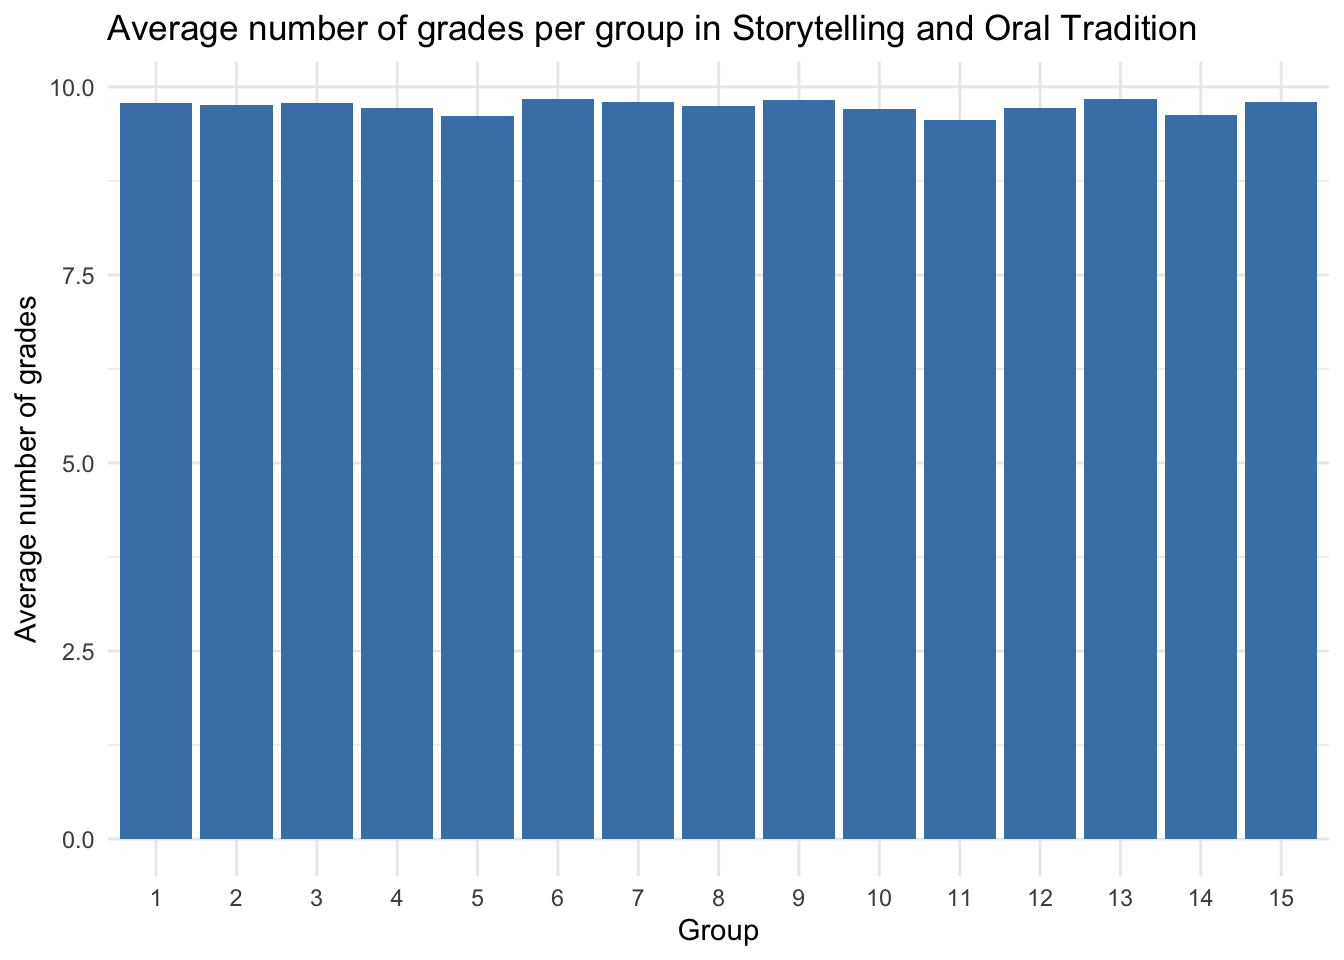
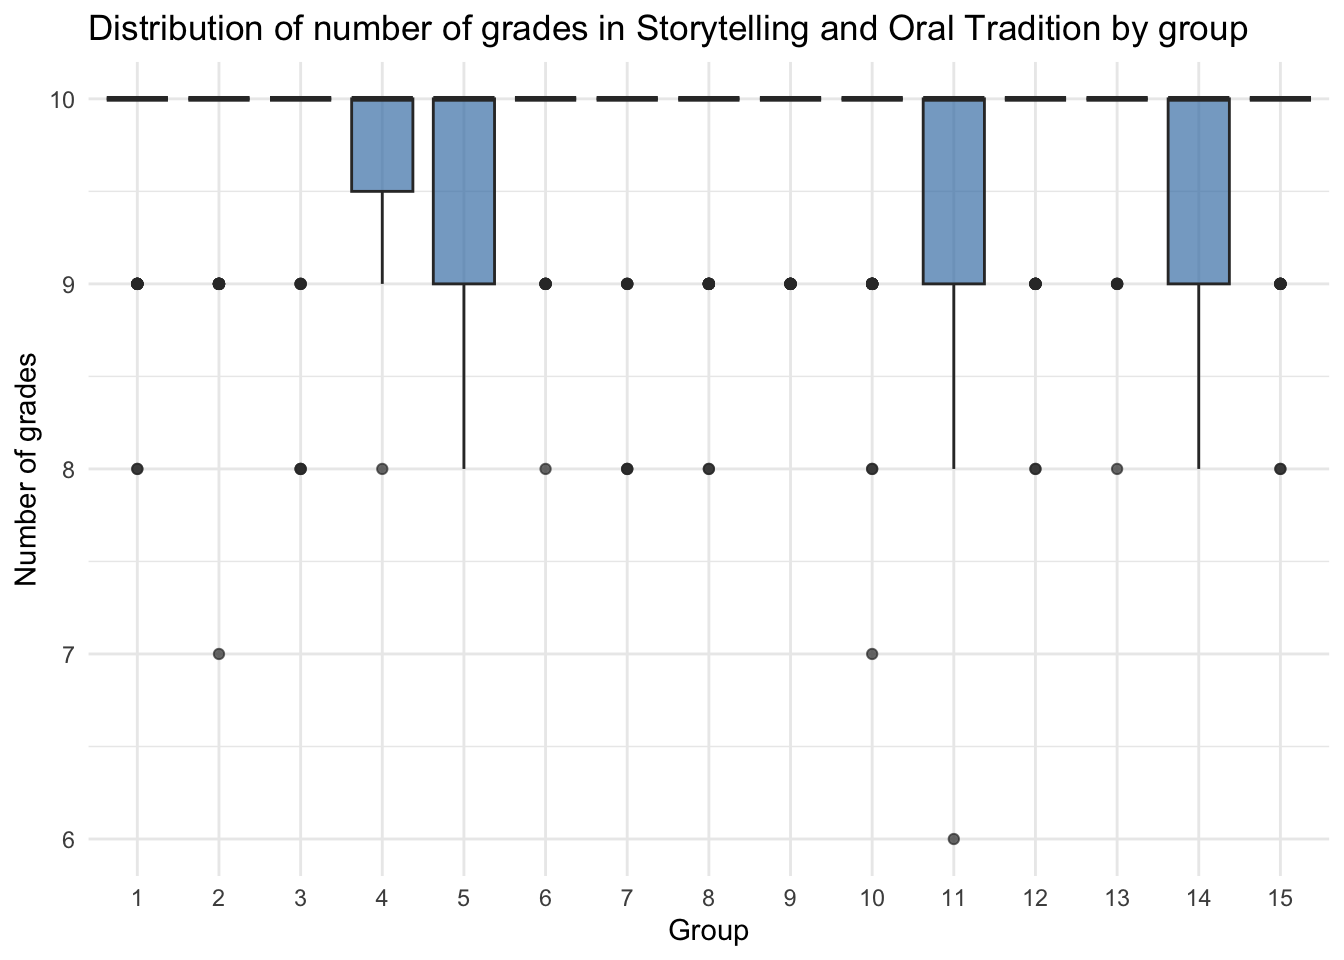
10:31

diff --git a/mazere.html b/mazere.html
@@ -313,7 +313,7 @@ pre > code.sourceCode > span > a:first-child::before { text-decoration: underlin
 <span id="cb8-2"><a href="#cb8-2" aria-hidden="true" tabindex="-1"></a>  <span class="fu">count</span>(group, sex) <span class="sc">|&gt;</span></span>
 <span id="cb8-3"><a href="#cb8-3" aria-hidden="true" tabindex="-1"></a>  <span class="fu">ggplot</span>(<span class="fu">aes</span>(<span class="at">x =</span> group, <span class="at">y =</span> n, <span class="at">fill =</span> sex)) <span class="sc">+</span></span>
 <span id="cb8-4"><a href="#cb8-4" aria-hidden="true" tabindex="-1"></a>  <span class="fu">geom_col</span>(<span class="at">position =</span> <span class="st">"fill"</span>) <span class="sc">+</span></span>
-<span id="cb8-5"><a href="#cb8-5" aria-hidden="true" tabindex="-1"></a>  <span class="fu">scale_fill_manual</span>(<span class="at">values =</span> <span class="fu">c</span>(<span class="st">"steelblue"</span>, <span class="st">"salmon"</span>)) <span class="sc">+</span></span>
+<span id="cb8-5"><a href="#cb8-5" aria-hidden="true" tabindex="-1"></a>  <span class="fu">scale_fill_manual</span>(<span class="at">values =</span> <span class="fu">c</span>(<span class="st">"lightblue"</span>, <span class="st">"salmon"</span>)) <span class="sc">+</span></span>
 <span id="cb8-6"><a href="#cb8-6" aria-hidden="true" tabindex="-1"></a>  <span class="fu">labs</span>(<span class="at">title =</span> <span class="st">"Gender balance by group"</span>,</span>
 <span id="cb8-7"><a href="#cb8-7" aria-hidden="true" tabindex="-1"></a>    <span class="at">x =</span> <span class="st">"Group"</span>, <span class="at">y =</span> <span class="st">"Count"</span>, <span class="at">fill =</span> <span class="st">"Gender"</span>) <span class="sc">+</span></span>
 <span id="cb8-8"><a href="#cb8-8" aria-hidden="true" tabindex="-1"></a>  <span class="fu">theme_minimal</span>()</span></code></pre></div><button title="Copy to Clipboard" class="code-copy-button"><i class="bi"></i></button></div>
@@ -642,64 +642,64 @@ pre > code.sourceCode > span > a:first-child::before { text-decoration: underlin
 </thead>
 <tbody>
 <tr class="odd">
-<td style="text-align: right;">288</td>
-<td style="text-align: left;">5</td>
-<td style="text-align: left;">M</td>
-<td style="text-align: right;">61</td>
-</tr>
-<tr class="even">
-<td style="text-align: right;">654</td>
-<td style="text-align: left;">4</td>
+<td style="text-align: right;">31</td>
+<td style="text-align: left;">6</td>
 <td style="text-align: left;">F</td>
-<td style="text-align: right;">63</td>
-</tr>
-<tr class="odd">
-<td style="text-align: right;">679</td>
-<td style="text-align: left;">5</td>
-<td style="text-align: left;">F</td>
-<td style="text-align: right;">60</td>
-</tr>
-<tr class="even">
-<td style="text-align: right;">552</td>
-<td style="text-align: left;">15</td>
-<td style="text-align: left;">F</td>
-<td style="text-align: right;">64</td>
-</tr>
-<tr class="odd">
-<td style="text-align: right;">343</td>
-<td style="text-align: left;">8</td>
-<td style="text-align: left;">M</td>
 <td style="text-align: right;">62</td>
 </tr>
 <tr class="even">
-<td style="text-align: right;">125</td>
-<td style="text-align: left;">8</td>
+<td style="text-align: right;">262</td>
+<td style="text-align: left;">13</td>
 <td style="text-align: left;">M</td>
-<td style="text-align: right;">60</td>
+<td style="text-align: right;">64</td>
 </tr>
 <tr class="odd">
-<td style="text-align: right;">548</td>
-<td style="text-align: left;">8</td>
-<td style="text-align: left;">M</td>
-<td style="text-align: right;">61</td>
-</tr>
-<tr class="even">
-<td style="text-align: right;">492</td>
-<td style="text-align: left;">1</td>
+<td style="text-align: right;">192</td>
+<td style="text-align: left;">6</td>
 <td style="text-align: left;">M</td>
 <td style="text-align: right;">63</td>
 </tr>
-<tr class="odd">
-<td style="text-align: right;">419</td>
+<tr class="even">
+<td style="text-align: right;">631</td>
 <td style="text-align: left;">10</td>
 <td style="text-align: left;">F</td>
-<td style="text-align: right;">62</td>
+<td style="text-align: right;">63</td>
+</tr>
+<tr class="odd">
+<td style="text-align: right;">117</td>
+<td style="text-align: left;">3</td>
+<td style="text-align: left;">F</td>
+<td style="text-align: right;">63</td>
 </tr>
 <tr class="even">
-<td style="text-align: right;">786</td>
-<td style="text-align: left;">7</td>
+<td style="text-align: right;">469</td>
+<td style="text-align: left;">13</td>
+<td style="text-align: left;">M</td>
+<td style="text-align: right;">63</td>
+</tr>
+<tr class="odd">
+<td style="text-align: right;">555</td>
+<td style="text-align: left;">1</td>
 <td style="text-align: left;">F</td>
 <td style="text-align: right;">64</td>
+</tr>
+<tr class="even">
+<td style="text-align: right;">257</td>
+<td style="text-align: left;">10</td>
+<td style="text-align: left;">F</td>
+<td style="text-align: right;">63</td>
+</tr>
+<tr class="odd">
+<td style="text-align: right;">816</td>
+<td style="text-align: left;">11</td>
+<td style="text-align: left;">F</td>
+<td style="text-align: right;">64</td>
+</tr>
+<tr class="even">
+<td style="text-align: right;">168</td>
+<td style="text-align: left;">5</td>
+<td style="text-align: left;">M</td>
+<td style="text-align: right;">62</td>
 </tr>
 </tbody>
 </table>
@@ -791,62 +791,62 @@ pre > code.sourceCode > span > a:first-child::before { text-decoration: underlin
 </thead>
 <tbody>
 <tr class="odd">
-<td style="text-align: right;">708</td>
-<td style="text-align: left;">11</td>
+<td style="text-align: right;">21</td>
+<td style="text-align: left;">3</td>
 <td style="text-align: left;">F</td>
 <td style="text-align: right;">10</td>
 </tr>
 <tr class="even">
-<td style="text-align: right;">402</td>
-<td style="text-align: left;">10</td>
-<td style="text-align: left;">M</td>
-<td style="text-align: right;">9</td>
+<td style="text-align: right;">828</td>
+<td style="text-align: left;">5</td>
+<td style="text-align: left;">F</td>
+<td style="text-align: right;">10</td>
 </tr>
 <tr class="odd">
-<td style="text-align: right;">336</td>
+<td style="text-align: right;">712</td>
 <td style="text-align: left;">1</td>
 <td style="text-align: left;">F</td>
 <td style="text-align: right;">10</td>
 </tr>
 <tr class="even">
-<td style="text-align: right;">702</td>
-<td style="text-align: left;">2</td>
+<td style="text-align: right;">790</td>
+<td style="text-align: left;">10</td>
+<td style="text-align: left;">F</td>
+<td style="text-align: right;">10</td>
+</tr>
+<tr class="odd">
+<td style="text-align: right;">776</td>
+<td style="text-align: left;">1</td>
+<td style="text-align: left;">F</td>
+<td style="text-align: right;">10</td>
+</tr>
+<tr class="even">
+<td style="text-align: right;">442</td>
+<td style="text-align: left;">13</td>
 <td style="text-align: left;">M</td>
-<td style="text-align: right;">9</td>
+<td style="text-align: right;">10</td>
 </tr>
 <tr class="odd">
-<td style="text-align: right;">161</td>
-<td style="text-align: left;">15</td>
-<td style="text-align: left;">F</td>
+<td style="text-align: right;">428</td>
+<td style="text-align: left;">7</td>
+<td style="text-align: left;">M</td>
 <td style="text-align: right;">10</td>
 </tr>
 <tr class="even">
-<td style="text-align: right;">524</td>
-<td style="text-align: left;">2</td>
+<td style="text-align: right;">45</td>
+<td style="text-align: left;">1</td>
 <td style="text-align: left;">M</td>
 <td style="text-align: right;">10</td>
 </tr>
 <tr class="odd">
-<td style="text-align: right;">842</td>
-<td style="text-align: left;">9</td>
-<td style="text-align: left;">F</td>
-<td style="text-align: right;">9</td>
-</tr>
-<tr class="even">
-<td style="text-align: right;">163</td>
-<td style="text-align: left;">9</td>
-<td style="text-align: left;">F</td>
-<td style="text-align: right;">10</td>
-</tr>
-<tr class="odd">
-<td style="text-align: right;">432</td>
-<td style="text-align: left;">6</td>
+<td style="text-align: right;">610</td>
+<td style="text-align: left;">13</td>
 <td style="text-align: left;">F</td>
 <td style="text-align: right;">10</td>
 </tr>
 <tr class="even">
-<td style="text-align: right;">11</td>
-<td style="text-align: left;">2</td>
+<td style="text-align: right;">388</td>
+<td style="text-align: left;">10</td>
 <td style="text-align: left;">F</td>
 <td style="text-align: right;">10</td>
 </tr>
@@ -883,15 +883,14 @@ pre > code.sourceCode > span > a:first-child::before { text-decoration: underlin
 <details class="code-fold">
 <summary>Code</summary>
 <div class="code-copy-outer-scaffold"><div class="sourceCode cell-code" id="cb21"><pre class="sourceCode r code-with-copy"><code class="sourceCode r"><span id="cb21-1"><a href="#cb21-1" aria-hidden="true" tabindex="-1"></a>storytelling <span class="sc">|&gt;</span></span>
-<span id="cb21-2"><a href="#cb21-2" aria-hidden="true" tabindex="-1"></a>  <span class="fu">group_by</span>(group) <span class="sc">|&gt;</span></span>
-<span id="cb21-3"><a href="#cb21-3" aria-hidden="true" tabindex="-1"></a>  <span class="fu">summarise</span>(<span class="at">avg_grades =</span> <span class="fu">mean</span>(n_grades)) <span class="sc">|&gt;</span></span>
-<span id="cb21-4"><a href="#cb21-4" aria-hidden="true" tabindex="-1"></a>  <span class="fu">ggplot</span>(<span class="fu">aes</span>(<span class="at">x =</span> group, <span class="at">y =</span> avg_grades)) <span class="sc">+</span></span>
-<span id="cb21-5"><a href="#cb21-5" aria-hidden="true" tabindex="-1"></a>  <span class="fu">geom_col</span>(<span class="at">fill =</span> <span class="st">"steelblue"</span>) <span class="sc">+</span></span>
-<span id="cb21-6"><a href="#cb21-6" aria-hidden="true" tabindex="-1"></a>  <span class="fu">labs</span>(</span>
-<span id="cb21-7"><a href="#cb21-7" aria-hidden="true" tabindex="-1"></a>    <span class="at">title =</span> <span class="st">"Average number of grades per group in Storytelling and Oral Tradition"</span>,</span>
-<span id="cb21-8"><a href="#cb21-8" aria-hidden="true" tabindex="-1"></a>    <span class="at">x =</span> <span class="st">"Group"</span>,</span>
-<span id="cb21-9"><a href="#cb21-9" aria-hidden="true" tabindex="-1"></a>    <span class="at">y =</span> <span class="st">"Average number of grades"</span>) <span class="sc">+</span></span>
-<span id="cb21-10"><a href="#cb21-10" aria-hidden="true" tabindex="-1"></a>  <span class="fu">theme_minimal</span>()</span></code></pre></div><button title="Copy to Clipboard" class="code-copy-button"><i class="bi"></i></button></div>
+<span id="cb21-2"><a href="#cb21-2" aria-hidden="true" tabindex="-1"></a>  <span class="fu">ggplot</span>(<span class="fu">aes</span>(<span class="at">x =</span> <span class="fu">factor</span>(group), <span class="at">y =</span> n_grades)) <span class="sc">+</span></span>
+<span id="cb21-3"><a href="#cb21-3" aria-hidden="true" tabindex="-1"></a>  <span class="fu">geom_boxplot</span>(<span class="at">fill =</span> <span class="st">"steelblue"</span>, <span class="at">alpha =</span> <span class="fl">0.7</span>) <span class="sc">+</span></span>
+<span id="cb21-4"><a href="#cb21-4" aria-hidden="true" tabindex="-1"></a>  <span class="fu">labs</span>(</span>
+<span id="cb21-5"><a href="#cb21-5" aria-hidden="true" tabindex="-1"></a>    <span class="at">title =</span> <span class="st">"Distribution of number of grades in Storytelling and Oral Tradition by group"</span>,</span>
+<span id="cb21-6"><a href="#cb21-6" aria-hidden="true" tabindex="-1"></a>    <span class="at">x =</span> <span class="st">"Group"</span>,</span>
+<span id="cb21-7"><a href="#cb21-7" aria-hidden="true" tabindex="-1"></a>    <span class="at">y =</span> <span class="st">"Number of grades"</span></span>
+<span id="cb21-8"><a href="#cb21-8" aria-hidden="true" tabindex="-1"></a>  ) <span class="sc">+</span></span>
+<span id="cb21-9"><a href="#cb21-9" aria-hidden="true" tabindex="-1"></a>  <span class="fu">theme_minimal</span>()</span></code></pre></div><button title="Copy to Clipboard" class="code-copy-button"><i class="bi"></i></button></div>
 </details>
 <div class="cell-output-display">
 <div>
@@ -901,6 +900,33 @@ pre > code.sourceCode > span > a:first-child::before { text-decoration: underlin
 </div>
 </div>
 </div>
+<p>The distribution of the average number of grades per group does <strong>not</strong> seem to depend on the group. Indeed, all median seem to revolve around 10 and the ranges are approximately similar.</p>
+<p><strong>Question 18</strong></p>
+<p>Take the analysis of the previous question one step further to see if there is a dependency of the number of grades with respect to both the group and the sex of the students.</p>
+<div class="cell">
+<details class="code-fold">
+<summary>Code</summary>
+<div class="code-copy-outer-scaffold"><div class="sourceCode cell-code" id="cb22"><pre class="sourceCode r code-with-copy"><code class="sourceCode r"><span id="cb22-1"><a href="#cb22-1" aria-hidden="true" tabindex="-1"></a>storytelling <span class="sc">|&gt;</span></span>
+<span id="cb22-2"><a href="#cb22-2" aria-hidden="true" tabindex="-1"></a>  <span class="fu">ggplot</span>(<span class="fu">aes</span>(<span class="at">x =</span> group, <span class="at">y =</span> n_grades, <span class="at">fill =</span> sex)) <span class="sc">+</span></span>
+<span id="cb22-3"><a href="#cb22-3" aria-hidden="true" tabindex="-1"></a>  <span class="fu">geom_boxplot</span>(<span class="at">alpha =</span> <span class="fl">0.7</span>) <span class="sc">+</span></span>
+<span id="cb22-4"><a href="#cb22-4" aria-hidden="true" tabindex="-1"></a>  <span class="fu">scale_fill_manual</span>(<span class="at">values =</span> <span class="fu">c</span>(<span class="st">"steelblue"</span>, <span class="st">"salmon"</span>)) <span class="sc">+</span></span>
+<span id="cb22-5"><a href="#cb22-5" aria-hidden="true" tabindex="-1"></a>  <span class="fu">facet_wrap</span>(<span class="sc">~</span> sex) <span class="sc">+</span></span>
+<span id="cb22-6"><a href="#cb22-6" aria-hidden="true" tabindex="-1"></a>  <span class="fu">labs</span>(</span>
+<span id="cb22-7"><a href="#cb22-7" aria-hidden="true" tabindex="-1"></a>    <span class="at">title =</span> <span class="st">"Distribution of grades by group,</span><span class="sc">\n</span><span class="st">separately for each sex"</span>,</span>
+<span id="cb22-8"><a href="#cb22-8" aria-hidden="true" tabindex="-1"></a>    <span class="at">x =</span> <span class="st">"Group"</span>,</span>
+<span id="cb22-9"><a href="#cb22-9" aria-hidden="true" tabindex="-1"></a>    <span class="at">y =</span> <span class="st">"Number of grades"</span></span>
+<span id="cb22-10"><a href="#cb22-10" aria-hidden="true" tabindex="-1"></a>  ) <span class="sc">+</span></span>
+<span id="cb22-11"><a href="#cb22-11" aria-hidden="true" tabindex="-1"></a>  <span class="fu">theme_minimal</span>()</span></code></pre></div><button title="Copy to Clipboard" class="code-copy-button"><i class="bi"></i></button></div>
+</details>
+<div class="cell-output-display">
+<div>
+<figure class="figure">
+<p><img src="mazere_files/figure-html/unnamed-chunk-19-1.png" class="img-fluid figure-img" width="672"></p>
+</figure>
+</div>
+</div>
+</div>
+<p>The conclusion is <strong>identical</strong> to the previous question: there does not seem to be any pattern variation between groups and whether the student is male or female.</p>
 </section>
 
 </main>
